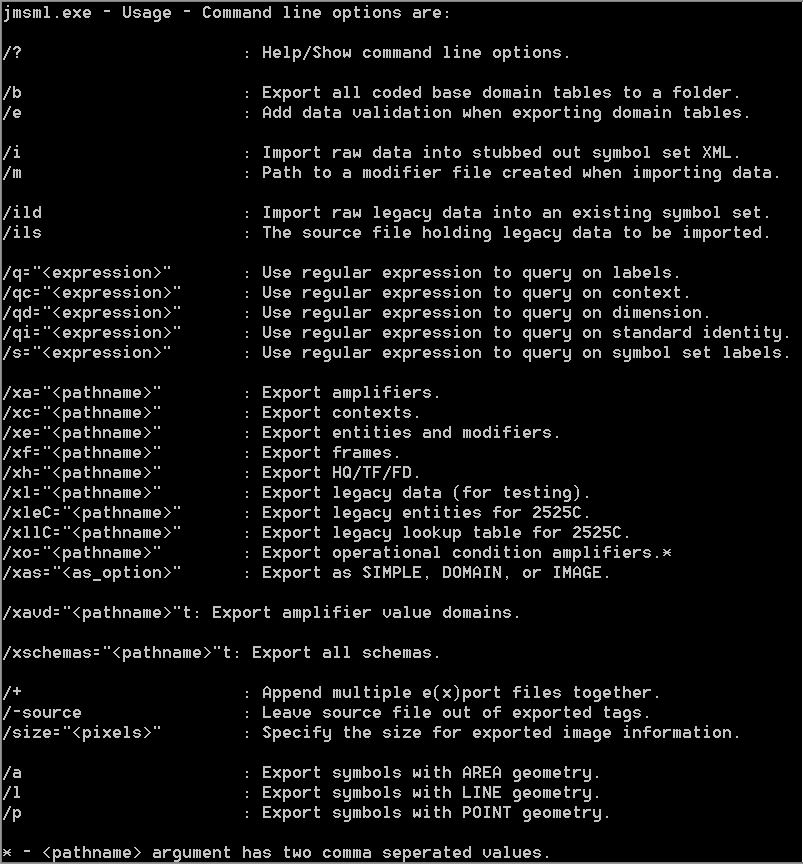
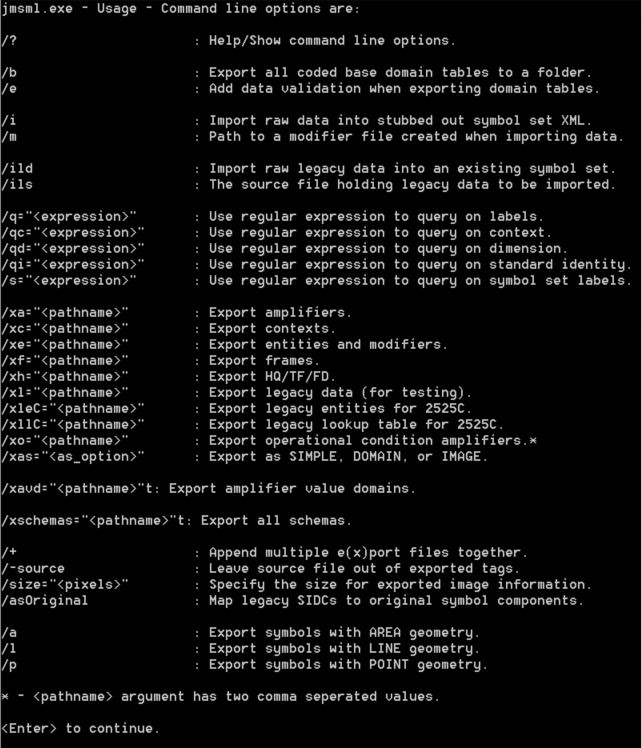
Updated export/samples doc to reflect recent changes

Changed region(s): [[0.0, 0.0, 1.0, 1.0]]

diff --git a/source/JointMilitarySymbologyLibraryCS/jmsml/Program.cs b/source/JointMilitarySymbologyLibraryCS/jmsml/Program.cs
@@ -109,6 +109,7 @@ namespace jmsml
                 Console.WriteLine("/+\t\t\t: Append multiple e(x)port files together.");
                 Console.WriteLine("/-source\t\t: Leave source file out of exported tags.");
                 Console.WriteLine("/size=\"<pixels>\"\t: Specify the size for exported image information.");
+                Console.WriteLine("/asOriginal\t\t: Map legacy SIDCs to original symbol components.");
                 Console.WriteLine("");
                 Console.WriteLine("/a\t\t\t: Export symbols with AREA geometry.");
                 Console.WriteLine("/l\t\t\t: Export symbols with LINE geometry.");

diff --git a/samples/legacy_support/README.md b/samples/legacy_support/README.md
@@ -11,18 +11,34 @@ Its format of these files consists of the following
 - **id** - A sequentially assigned numeric identifier, used to make it easier to refer to a specific line for review, discussion, and/or revision.
 
 - **Name** - The symbol's name as it appears in 2525D.  This represents the latest military doctrine-driven terms used for the object the symbol represents.  When a given MIL-STD-2525X symbol doesn't exist in 2525D, we use the dot separated hierarchy string assigned to that symbol, as documented in the appropriate legacy standard.
-- **Key2525C** (or **Key2525BC2**, depending on the contents of this file) - This column contains keys for the various parts of the 2525X symbol we are trying to construct.  The user of this file would parse out and assemble, from a full 15-character SIDC, a number of category-specific patterns, each representing the minimum number of specific characters necessary to find the needed elements of the complete symbol.
+
+- **LegacyKey** - This column contains keys for the various parts of the 2525X symbol we are trying to construct.  The user of this file would parse out and assemble, from a full 15-character SIDC, a number of category-specific patterns, each representing the minimum number of specific characters necessary to find the needed elements of the complete symbol.
+
 - **MainIcon** - The unique ID for a specific main icon symbol element in our 2525D stylx file.  These are the values our 2525X dictionary renderer plug-ins should be returning to the dictionary renderer.
+
 - **Modifier1** - The unique ID for a specific sector one modifier symbol element in our 2525D stylx file.  Sometimes the legacy symbol needs more than just a main icon to be accurately depicted.
+
 - **Modifier2** - The unique ID for a specific sector two modifier symbol element in our 2525D stylx file.  Sometimes the legacy symbol needs more than just a main icon to be accurately depicted.
+
 - **ExtraIcon** - The unique ID for a special or extra symbol element in our 2525D stylx file.  Special entity sub types are the most common example of these.
+
 - **FullFrame** - Indicates whether the main icon touches the edges of the frame.  TRUE if it does, left blank or null if it does not.  If this is TRUE the user of this file should know that there are actually four versions of the specified main icon in our 2525D stylx file.
+
 - **Geometry** - Indicates the type of geometry being symbolized by this object.  Point, Line, or Area.
+
+- **Standard** - Indicates which standard this entry supports.
+	- **2525Bc2** - This entry should be used in support of the 2525B Change 2 version of the renderer.
+	- **2525C** - This entry should be used in support of the 2525C version of the renderer.
+	- **null** - This entry should be used in support of all versions of the renderer.
+
+
 - **Status** - An optional string which notes any special handling, condition, or (current) known limitation of the specified symbol.  Examples include:
 	- **No Icon** - 2525X uses an empty frame to depict this root level symbol so there is no 2525D element for this.
 	- **Different Icon** - 2525X and 2525D don't use the same icon.  After all these years, while the symbol may still exist, it doesn't look the same as it did before.  We'll need to do something about this, in time, if we want to legitimately claim to implement 2525X.  For now, the 2525D icon will have to suffice and we'll have to document this as a known limitation.
 	- **Moved Modifier** - There is at least one 2525D sector modifier needed for the 2525X symbol to be accurately depicted, but in 2525D that modifier has moved from from one sector to the other sector.
 	- **Retired** - All or part of the 2525X symbol no longer exists in 2525D.  We'll need to do something about this, in time, if we want to legitimately claim to implement 2525X.  For now, we'll have to decide on an alternative 2525D symbol, with guidance from SMEs and our own best judgment, and we'll have to document this as a known limitation.
+	
+
 - **Notes** - An optional string that provides additional explanation or information about the entry.  Examples include:
 	- **SIGINT** - This entry is a Signals Intelligence symbol.
 	- **SOF** - This entry is a Special Operations Forces symbol.
@@ -31,7 +47,7 @@ Its format of these files consists of the following
 
 
 
-Key2525C Keys have the following format:
+LegacyKey values have the following format:
 
 * Frame Icons 
 

diff --git a/samples/README.md b/samples/README.md
@@ -93,7 +93,10 @@ A remark of retired indicates the test resulted in finding that the specified 25
 #### Legacy Lookup ####
 JMSML's legacy symbology support also includes an ability to export a look-up table that maps unique IDs for various parts of symbols in MIL-STD-2525B Change 2 and MIL-STD-2525C, to symbol parts in MIL-STD-2525D.  Implementers may use this output to create older symbology from various parts of the latest symbology.
 
-	jmsml.exe /xllC="All_ID_Mapping_C_to_D.csv"
+Use of the /asOriginal switch forces the legacy lookup export procedure to map legacy SIDCs to components that reflect their original 2525B Change 2 or 2525C appearance.  Running without this switch results in the legacy SIDCs being mapped to 2525D components, if available, original components otherwise.
+
+	jmsml.exe /xllC="All_ID_Mapping_Latest.csv"
+	jmsml.exe /xllC="All_ID_Mapping_Original.csv" /asOriginal
 
 #### Legacy Entities ####
 While JMSML was designed to use XML to define the contents of the 2525D symbology standard, recognition of the need to support backwards compatibility with the older 2525B Change 2 and 2525C versions of the standard; including those symbols from the two older standards that are no longer supported in 2525D; has resulted in JMSML being enhanced with SVG files and metadata for those retired symbols.  The resulting legacy entities may be exported into a separate CSV file, whose structure mirrors the Image File Name, Category, Tags tables described above.  This exported data may be merged with the other Image File Name, Category, Tag exports to provide, together with the referenced image files, and Legacy Lookup information, a comprehensive collection of 2525D symbology, and 2525C/2525B Change 2 symbology built on top of that 2525D symbology.
